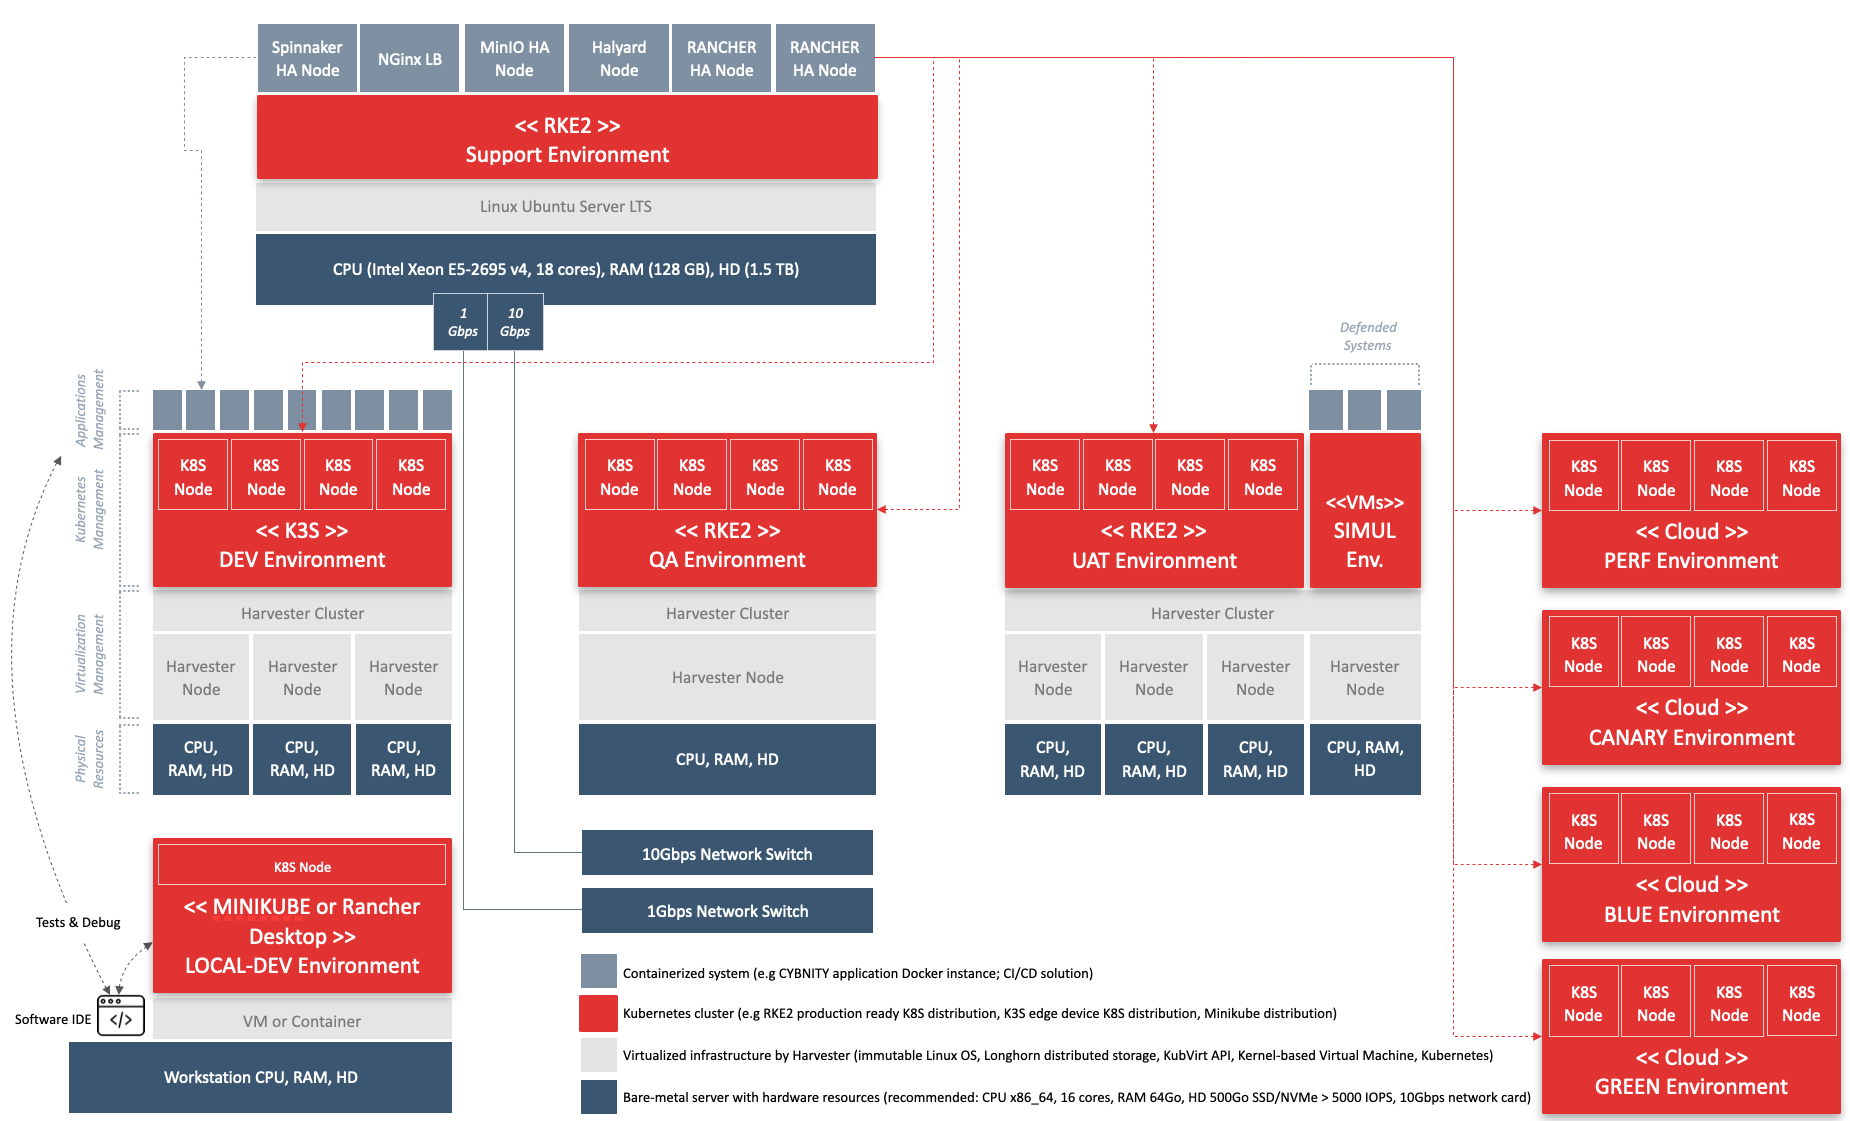
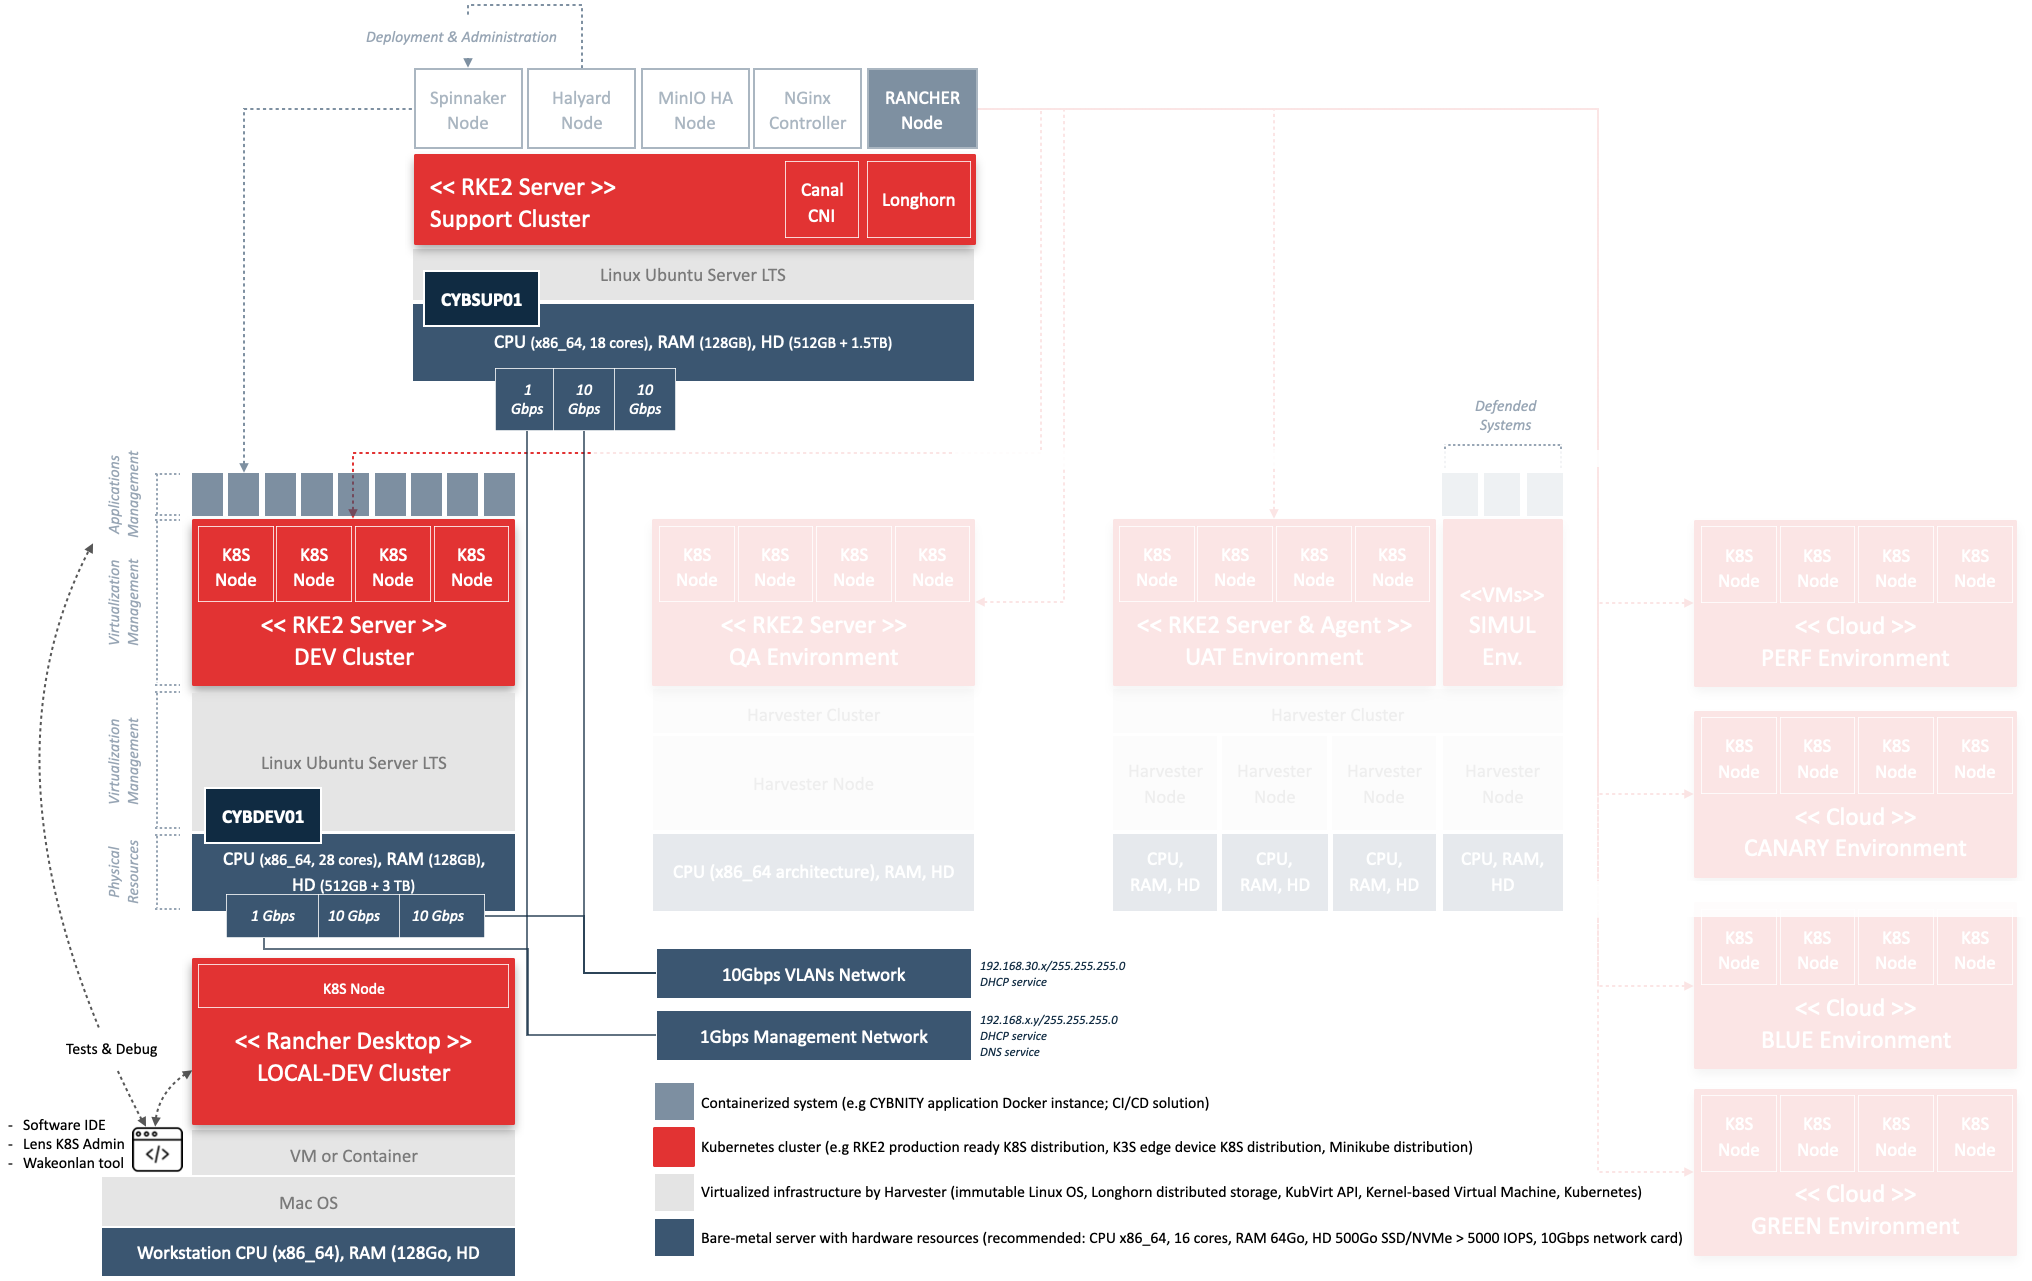
guideline for CYBDEV01 server installation & configuration; doc update

diff --git a/implementations-line/systems/technical-infrastructure/CYDEL01-ubuntu-installation.md b/implementations-line/systems/technical-infrastructure/CYDEL01-ubuntu-installation.md
@@ -10,7 +10,6 @@ Basic BIOS and OS layer's elements are presented with detail of all technical op
   - USB configuration:
     - Enable USB 3.0 (xHCI) on super speed ports: disable (avoid potential conflict with Wake-On-Lan ability via PCI NIC card)
 - Power management planification defining auto-start of server according to project work time periods
-
   - Auto On Time: selected days and time when server shall be automatically started
   - AC recovery: last power state
   - Deep sleep control: disable
@@ -30,6 +29,19 @@ Installed by default by Ubuntu Linux server LTS version. See [AppArmor configura
 - Installation of Ubuntu LTS server version (e.g from bootable USB stick)
   - define boot and OS dedicated partitions for OS directories and mounting points
   - define independent datadisk dedicated to the K8S resources storage with a mounting point at `/srv`
+  - set installation of Open SSH server (allowing remote connection over LAN network)
+  - install third-party drivers (e.g nvidia detected card driver)
+
+After installation, storage layout and filesystem layout shall be shown (via `lsblk -f` command) as:
+
+| NAME | FSTYPE | TYPE | RO | MOUNTPOINTS |
+| sda | btrfs | disk | 0 | /srv |
+| sr0 | | rom | 0 | |
+| nvme0n1 | | disk | 0 | |
+| nvme0n1p1 | vfat| part | 0 | /boot/efi |
+| nvme0n1p2 | ext4 | part | 0 | /boot |
+| nvme0n1p3 | LVM2_member| part | 0 | |
+| - ubuntu--vg-ubuntu--lv | ext4 | lvm | / |
 
 - Swap (all nodes) disabling (change consistent after a reboot with fstb file modification) to enhance Kubernetes performance via command:
 
@@ -84,9 +96,7 @@ Installed by default by Ubuntu Linux server LTS version. See [AppArmor configura
 ## Networking
 - Check detected network card via commands:
 ```
-  sudo lspci -nnvmm | egrep -A 6 -B 1 -i 'network|ethernet'
-
-  lspci | grep -E -i --color 'network|ethernet|wireless|wi-fi'
+  sudo lspci | grep -E -i --color 'network|ethernet|wireless|wi-fi'
 ```
 
 - Check capacities of card via command `sudo lshw -class network`
@@ -99,7 +109,7 @@ Installed by default by Ubuntu Linux server LTS version. See [AppArmor configura
   - show configuration of detected ethernet controllers via command `sudo hwinfo --netcard`
 
 ### Intel 10-Gigabit X540-AT2 card drivers
-Only to install when network card were not detected/configured during the origin Linux installation.
+When NIC not detected or usable, install when network card were not detected/configured during the origin Linux installation.
 
 - Download of drivers files via command lines:
 ```
@@ -114,6 +124,7 @@ Only to install when network card were not detected/configured during the origin
    transactional-update -i pkg install ixgbe-5.21.5.tar.gz
    transactional-update -i pkg install intel-public-key-ixgbe-ko.zip
 ```
+
 - Reboot system
 - Check visibility of detected network cards via command `ip a`
 - install ifconfig via command `sudo apt install net-tools` allowing usage of __ifconfig__ command
@@ -135,19 +146,18 @@ None configuration is existing about the additional network card (e.g Intel 10-G
       # dedicated NIC to server management (e.g remote Wake On Lan) with specific ip address and hostname (not based on default server hostname configuration)
       enp0s25:
         dhcp4: true
-        dhcp6: true
         optional: true
         dhcp4-overrides:
           use-dns: true
-          send-hostname: true
+          send-hostname: false
           hostname: cybsup01_mgt
         dhcp6: true
         dhcp6-overrides:
           use-dns: true
-          send-hostname: true
+          send-hostname: false
           hostname: cybsup01_mgt
 
-      # set 100Gbps NIC card in DHCP mode as operations server endpoint
+      # set 100Gbps NIC cards in DHCP mode as operation server endpoints
       enp11s0f0:
         dhcp4: true
         optional: true
@@ -175,20 +185,27 @@ None configuration is existing about the additional network card (e.g Intel 10-G
 sudo chmod 600 /etc/netplan/*.yaml
 ```
 
+- verify file conformity and detect potential format errors via command:
+```
+sudo netplan try
+```
+
 - Apply the new configuration with command:
 ```
 sudo netplan apply
 ```
 
+- Add client static binding record into the LAN DHCP service to assign always same ip address to the NIC mac address (required by Kubernetes cluster using static ip address during node setting creation)
 - Connect a network cable between the NIC card port and the network switch, and check that machine have been detected/assigned into the DHCP client list table (e.g hostname cybsup01)
 - Try to ping external servers to check the opened route via command executions:
 ```
 # check route to Internet domains
 ping google.com
 
+# check route to other server available in default lan
 ping <external server ip>
 
-# check route to external LAN (e.g machine name known by DNS server that have been dynamically configured by DHCP client)
+# check route to potential external LAN machine (e.g machine name known by DNS server that have been dynamically configured by DHCP client)
 ping <external server name>.<domain name>
 
 ```
@@ -221,7 +238,7 @@ ping <external server name>.<domain name>
   sudo ethtool enp0s25
   ```
 
-  - Make change as permanent (see [setting doc for help](https://thedarkercorner.com/setting-up-wake-on-lan-on-ubuntu-server-22-04-lts/))
+  - If feature supported by NIC port, make change as permanent (see [setting doc for help](https://thedarkercorner.com/setting-up-wake-on-lan-on-ubuntu-server-22-04-lts/))
     - create new file `wol.service` into the `/etc/systemd/system` folder, including (used value __d__ for disable, or value __g__ for enable Wake-on mode into the ExecStart command's parameter):
     ```
     [Unit]
@@ -238,17 +255,17 @@ ping <external server name>.<domain name>
     - add wol service to the systemd services via command:
     ```
     # update and/or locate new service file
-    systemctl daemon-reload
+    sudo systemctl daemon-reload
     ```
 
     - enable the service to run on start up and to fire up the service via command:
     ```
-    systemctl enable wol.service
+    sudo systemctl enable wol.service
     ```
 
     - check status via command:
     ```
-    systemctl status wol
+    sudo systemctl status wol
     ```
 
 - test the operational state of WoL capability with:

diff --git a/implementations-line/systems/technical-infrastructure/CYDEL01-cybdev01.md b/implementations-line/systems/technical-infrastructure/CYDEL01-cybdev01.md
@@ -1,20 +1,21 @@
 ## PURPOSE
-This technical documentation presents the guidelines (e.g server installation instructions, configuration of system elements) allowing preparation, configuration and maintenant in operational state of the primary support server.
+This technical documentation presents the guidelines (e.g server installation instructions, configuration of system elements) allowing preparation, configuration and maintenant in operational state of the primary development server.
 
-The services provided by the CYBSUP01 server are focus on:
-- primary server of the Support Environment cluster supporting all the CYDEL version's tools
-- management of other environments (e.g other Kubernetes clusters of CYDEL01)
-- hosting of Continuous Delivery tools and applications managing the detection and installation of CYBNITY software suite versions into other K8S clusters
-- management of application systems deployment life cycle (e.g continuous delivery chain) on other K8S cluster (e.g dev, test...)
+The DEV cluster is dedicated to run of a version of CYBNITY software components which is not already released (e.g staging version, feature branch version).
+
+The services provided by the CYBDEV01 server are focus on:
+- primary server of the Dev Environment cluster
+- detection of sub-resources sizing required by any change of CYBNITY applications
+- unit test and/or integration development activities (e.g link to other external systems that integration development is in progress)
 
 # HARDWARE LAYER
-Current hardware configuration is based on a Dell 5810 server:
-- CPU: Intel Xeon E5-2695 v4, 18 cores
+Current hardware configuration is based on a Hewlett-Packard Z640 server:
+- CPU: 2 x Intel Xeon E5-2690 v4, 28 cores
 - RAM: 128 GB
 - Hard disks:
   - NVMe SSD 512 GB (Operation System & Linux based applications)
-  - 1 SATA Disk 1.5 TB (K8S applications data)
-- NVIDIA GeFore GTX 1060 graphic card, 6Go
+  - 1 SATA Disk 3 TB (K8S applications data)
+- NVIDIA Quadro P4000 graphic card, 8Go
 - 1 NIC 1Gbps: used for Wake-On-Lan (remote start of server)
 - 2 x NIC 10Gbps:
   - 1 dedicated ot Kubernetes HA clustering
@@ -24,10 +25,10 @@ Current hardware configuration is based on a Dell 5810 server:
 See [Ubuntu-installation](CYDEL01-ubuntu-installation.md) procedure to prepare a server into a __"ready for virtualization installation"__ state.
 
 Current prepared server configuration is:
-- hostname: __cybsup01__
+- hostname: __cybdev01__
 
 # VIRTUALIZATION LAYER
-RKE2 virtualization system is implemented as Kubernetes layer hosting the CYBNTY support applications deployed into a __Support cluster__.
+RKE2 virtualization system is implemented as Kubernetes layer hosting the CYBNTY staging versions deployed into a __Dev cluster__.
 
 ## Helm
 - Install Helm stable version via command:
@@ -167,70 +168,8 @@ Distributed block storage system deployed for containers data management.
 Canal solution is deployed as CNI plugin.
 
 ## Security
-### Rancher Backup
-Automated backup solution ensuring auto-save of Rancher instance into a scheduled approach, to file versions allowing restoration in case of Rancher container disaster.
 
 # APPLICATION SERVICES
-
-## Kubernetes management (Rancher)
-- Add needed helm charts to node repository list via command:
-```
-  helm repo add rancher-stable https://releases.rancher.com/server-charts/stable
-```
-
-### Cert-Manager
-- As [documented](https://ranchermanager.docs.rancher.com/getting-started/installation-and-upgrade/other-installation-methods/rancher-behind-an-http-proxy/install-rancher#install-cert-manager), add cert-manager Helm repository and install cert-manager with CRDs via command:
-```
-  helm repo add jetstack https://charts.jetstack.io --force-update
-  kubectl create namespace cert-manager
-  helm install \
-  cert-manager jetstack/cert-manager \
-  --namespace cert-manager \
-  --create-namespace \
-  --version v1.16.1 \
-  --set crds.enabled=true
-```
-
-- valid cert-manager deployment via commands:
-```
-kubectl rollout status deployment -n cert-manager cert-manager
-kubectl rollout status deployment -n cert-manager cert-manager-webhook
-```
-
-See [cert-manager documentation](https://cert-manager.io/docs/installation/helm/) for help.
-
-### Kubernetes clusters management (Rancher)
-Ranche instance is deployed for management of any K8S cluster of CYDEL01 infrastructure.
-
-See [Rancher technical documentation](https://ranchermanager.docs.rancher.com/getting-started/installation-and-upgrade/install-upgrade-on-a-kubernetes-cluster) for help.
-
-- Namespace creation into the support cluster via command:
-```
-sudo kubectl create namespace cattle-system
-```
-
-- [delete certain version created certificates](https://ranchermanager.docs.rancher.com/v2.6/troubleshooting/other-troubleshooting-tips/expired-webhook-certificate-rotation) that will expire after on year via commands:
-```
-kubectl delete secret -n cattle-system cattle-webhook-tls
-kubectl delete mutatingwebhookconfigurations.admissionregistration.k8s.io --ignore-not-found=true rancher.cattle.io
-kubectl delete pod -n cattle-system -l app=rancher-webhook
-```
-
-- [Installation of Rancher](https://ranchermanager.docs.rancher.com/getting-started/installation-and-upgrade/install-upgrade-on-a-kubernetes-cluster#5-install-rancher-with-helm-and-your-chosen-certificate-option) over Helm with Rancher-generated certificates
-```
-helm install rancher rancher-stable/rancher \
-  --namespace cattle-system \
-  --set hostname=cybsup01 \
-  --set bootstrapPassword=admin
-```
-
-- Follow command results to read the web url and to open the web console
-
-- Verify that Rancher server is successfully deployed via commands:
-```
-kubectl -n cattle-system rollout status deploy/rancher
-kubectl -n cattle-system get deploy rancher
-```
 
 ## CYBNITY software repository
 - Add complementary helm charts (e.g allowing deployment of CYBNITY applications) to node repository list via commands:

diff --git a/implementations-line/systems/technical-infrastructure/CYDEL01.md b/implementations-line/systems/technical-infrastructure/CYDEL01.md
@@ -30,9 +30,11 @@ Interconnection of physical servers is supported by a 10G Ethernet managed switc
 
 ## SUPPORT INFRASTRUCTURE
 This area of technical components and/or services are dedicated to support the other environments as tools (e.g Continuous Delivery of application components on environment) and shared services (e.g virtualization systems and containers management):
-- [CYDEL 01 - Support primary server](CYDEL01-cybsup01.md)
+- [CYDEL01 - Support primary resources server](CYDEL01-cybsup01.md)
 
-## DEVELOPMENT INFRASTRUCTURE
+## DEVELOPMENT
+This area of technical components and/or resources are dedicated to centralized development activities as shared CYBNITY software suite development cluster (e.g allowing developers of application components to merge and test CYBNITY software components that are versioned over the STAGING branch and/or that need temporary deployment from a development feature branch):
+- [CYDEL01 - Devvelopment primary resources server](CYDEL01-cybdev01.md)
 
 ## VALIDATION INFRASTRUCTURE
 
